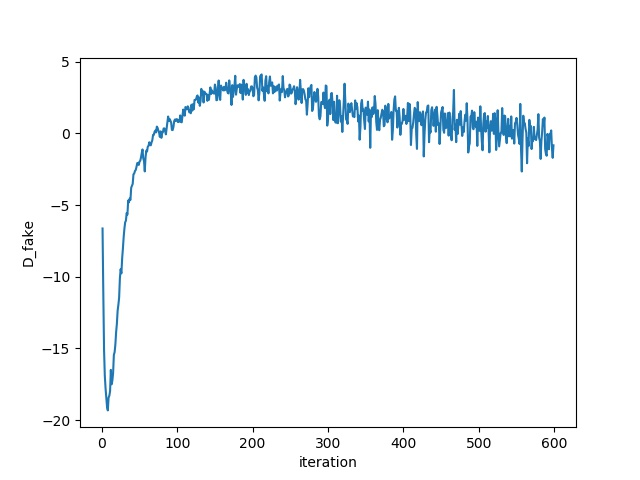
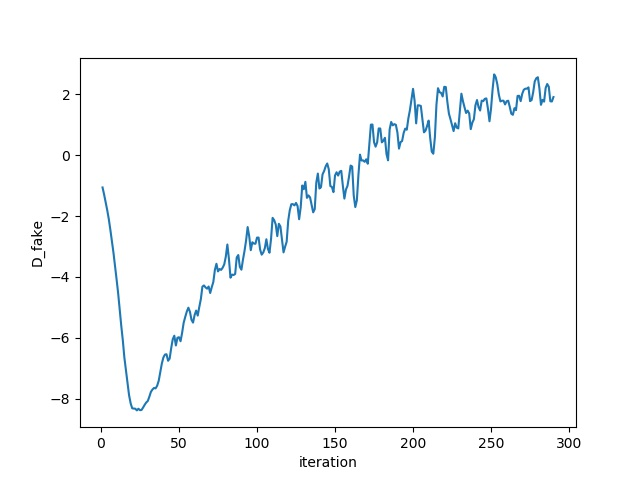
dev

diff --git a/gan_mnist_bn.py b/gan_mnist_bn.py
@@ -123,15 +123,6 @@ disc_params = lib.params_with_name('Discriminator')
 class_loss_real = tf.reduce_mean(tf.nn.sigmoid_cross_entropy_with_logits(labels=real_label_onehot,logits=disc_real_logit))
 class_loss_fake = tf.reduce_mean(tf.nn.sigmoid_cross_entropy_with_logits(labels=real_label_onehot,logits=disc_fake_logit))
 
-# bandwidths = [2.0, 5.0, 10.0, 20.0, 40.0, 80.0]
-# kernel_cost = mmd.mix_rbf_mmd2(disc_real,disc_fake,sigmas=bandwidths,id=BATCH_SIZE)
-ind_t=tf.placeholder(tf.int32,[10])
-# con_kernel_cost =0
-# for i in range(10):
-#     find_index = tf.where(tf.equal(real_label,i))
-#     Image_c = tf.gather(disc_real[0],find_index)
-#     Gimage_c = tf.gather(disc_fake[0],find_index)
-#     con_kernel_cost+=mmd.mix_rbf_mmd2(Image_c,Gimage_c,sigmas=bandwidths,id=ind_t[i])
 
 alpha = tf.random_uniform(
    shape=[BATCH_SIZE,1],
@@ -144,22 +135,19 @@ inter_img,a,b=Discriminator(interpolates)
 gradients = tf.gradients(inter_img, [interpolates])[0]
 slopes = tf.sqrt(tf.reduce_sum(tf.square(gradients), reduction_indices=[1]))
 gradient_penalty = tf.reduce_mean((slopes-1.)**2)
-gp_cost= 1*gradient_penalty
+gp_cost= 10*gradient_penalty
 
 gen_cost  = -tf.reduce_mean(disc_fake) + 1*(class_loss_fake)
 disc_cost = tf.reduce_mean(disc_fake) - tf.reduce_mean(disc_real) + 1*(class_loss_fake+class_loss_real)+gp_cost
 
 
-#gen_cost  = kernel_cost+1*(class_loss_fake)
-#disc_cost = -1*(con_kernel_cost)+1*(class_loss_real+class_loss_fake)+gp_cost
 
-gen_train_op = tf.train.AdamOptimizer(learning_rate=2e-4,beta1=0.5,beta2=0.9).minimize(gen_cost, var_list=gen_params)
-disc_train_op = tf.train.AdamOptimizer(learning_rate=2e-4,beta1=0.5,beta2=0.9).minimize(disc_cost, var_list=disc_params)
+gen_train_op = tf.train.AdamOptimizer(learning_rate=1e-4,beta1=0.5,beta2=0.9).minimize(gen_cost, var_list=gen_params)
+disc_train_op = tf.train.AdamOptimizer(learning_rate=1e-4,beta1=0.5,beta2=0.9).minimize(disc_cost, var_list=disc_params)
 
 # For saving samples
 fixed_noise = tf.constant(np.random.normal(size=(100, 128)).astype('float32'))
 fixed_labels = tf.constant(np.array([0,1,2,3,4,5,6,7,8,9]*10,dtype='int32'))
-#fix_label_onehot = tf.one_hot(tf.reshape(fixed_labels,[100]),10)
 fixed_noise_samples = Generator(100, label=fixed_labels,noise=fixed_noise)
 _,_,class_gen_label = Discriminator(fixed_noise_samples)
 gen_label = tf.argmax(class_gen_label,1)
@@ -186,52 +174,29 @@ with tf.Session(config=config) as session:
     gen = inf_train_gen()
     for iteration in xrange(ITERS):
         start_time = time.time()
-        _data,_label = gen.next()
-        num_index=[]
-        for ind in range(10):
-            whlen = len(np.where(_label==ind)[0])
-            #if whlen ==0:
-            #    whlen=1
-            num_index.append(whlen)
-        if  np.shape(np.unique(_label))[0]<10:
-            continue
-        #print num_index
         if iteration > 0:
-            _ = session.run(gen_train_op,feed_dict={real_data:_data,real_label:_label,ind_t:np.array(num_index)})
+            _ = session.run(gen_train_op,feed_dict={real_data:_data,real_label:_label})
         for i in xrange(CRITIC_ITERS):
             _data,_label = gen.next()
-            num_index=[]
-            for ind in range(10):
-                whlen = len(np.where(_label==ind)[0])
-                num_index.append(whlen)
-            if  np.shape(np.unique(_label))[0]<10:
-                continue
-                #if whlen ==0:
-                #    whlen=1
-                num_index.append(whlen)
-            if  np.shape(np.unique(_label))[0]<10:
-                continue
-	    #print num_index
             _disc_cost, _ = session.run(
                 [disc_cost, disc_train_op],
-                feed_dict={real_data: _data,real_label:_label,ind_t:np.array(num_index)}
+                feed_dict={real_data: _data,real_label:_label}
             )
-        d_real,d_fake=session.run([disc_real,disc_fake],feed_dict={real_data:_data,real_label:_label,ind_t:np.array(num_index)})
-            #_disc,_class_real,_class_fake,con_cost,_gp_cost= session.run([disc_cost,class_loss_real,class_loss_fake,con_kernel_cost,gp_cost],feed_dict={real_data:_data,real_label:_label,ind_t:np.array(num_index)})
+        d_real,d_fake=session.run([disc_real,disc_fake],feed_dict={real_data:_data,real_label:_label})
         if iteration>0:
             lib.plot.plot('train disc cost', _disc_cost)
             lib.plot.plot('D_real',np.mean(d_real))
             lib.plot.plot('D_fake',np.mean(d_fake))
         if iteration%100==99:
-            _class_real,_class_fake= session.run([class_loss_real,class_loss_fake],feed_dict={real_data:_data,real_label:_label,ind_t:np.array(num_index)})
+            _class_real,_class_fake= session.run([class_loss_real,class_loss_fake],feed_dict={real_data:_data,real_label:_label})
             # print "True label:"
             # print _label
             # print "class_real:"
             # print session.run(class_real,feed_dict={real_data:_data,real_label:_label,ind_t:np.array(num_index)})
             # print "class_fake"
             # print session.run(class_fake,feed_dict={real_data:_data,real_label:_label,ind_t:np.array(num_index)})
-            # print "class_gen:"
-            # print  session.run(gen_label)
+            print "class_gen:"
+            print  session.run(gen_label)
             # print "_class_fake:"
             # print _class_fake
             # print "total_kernel_loss:"
